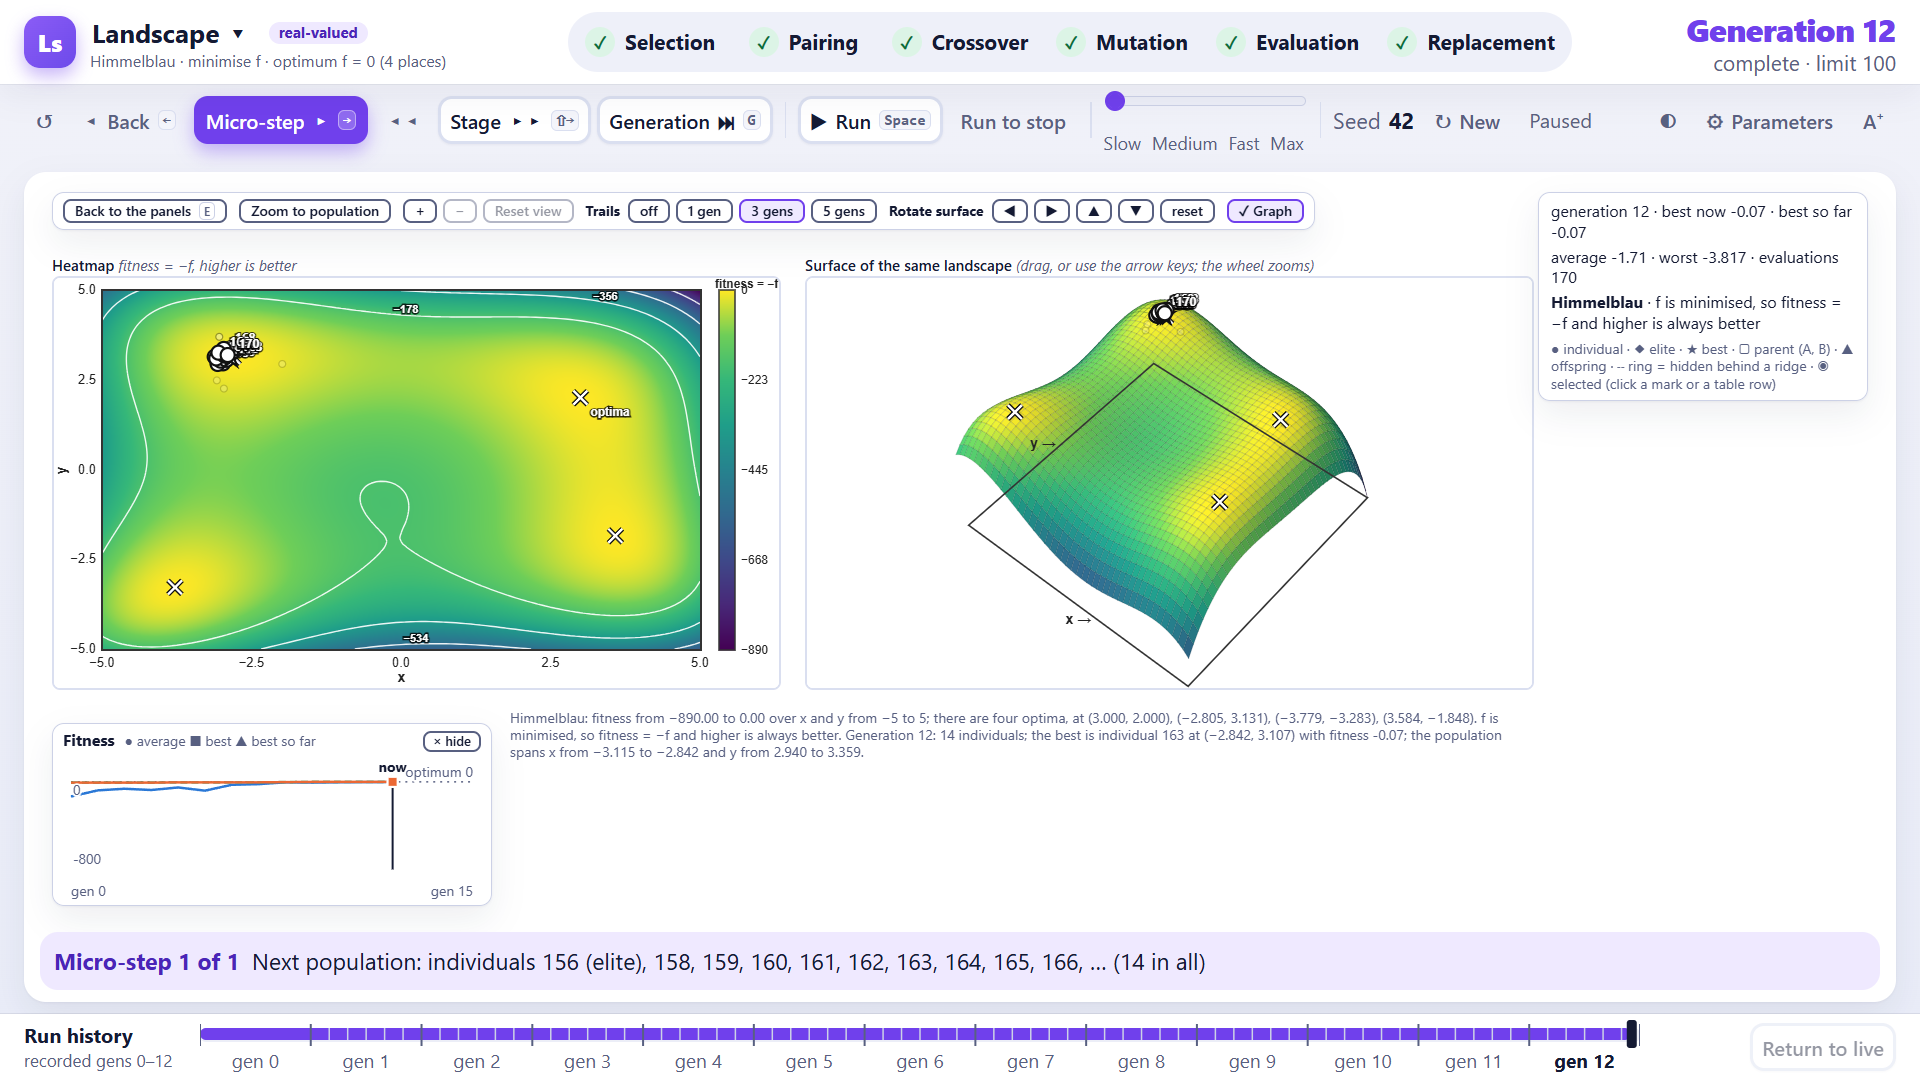
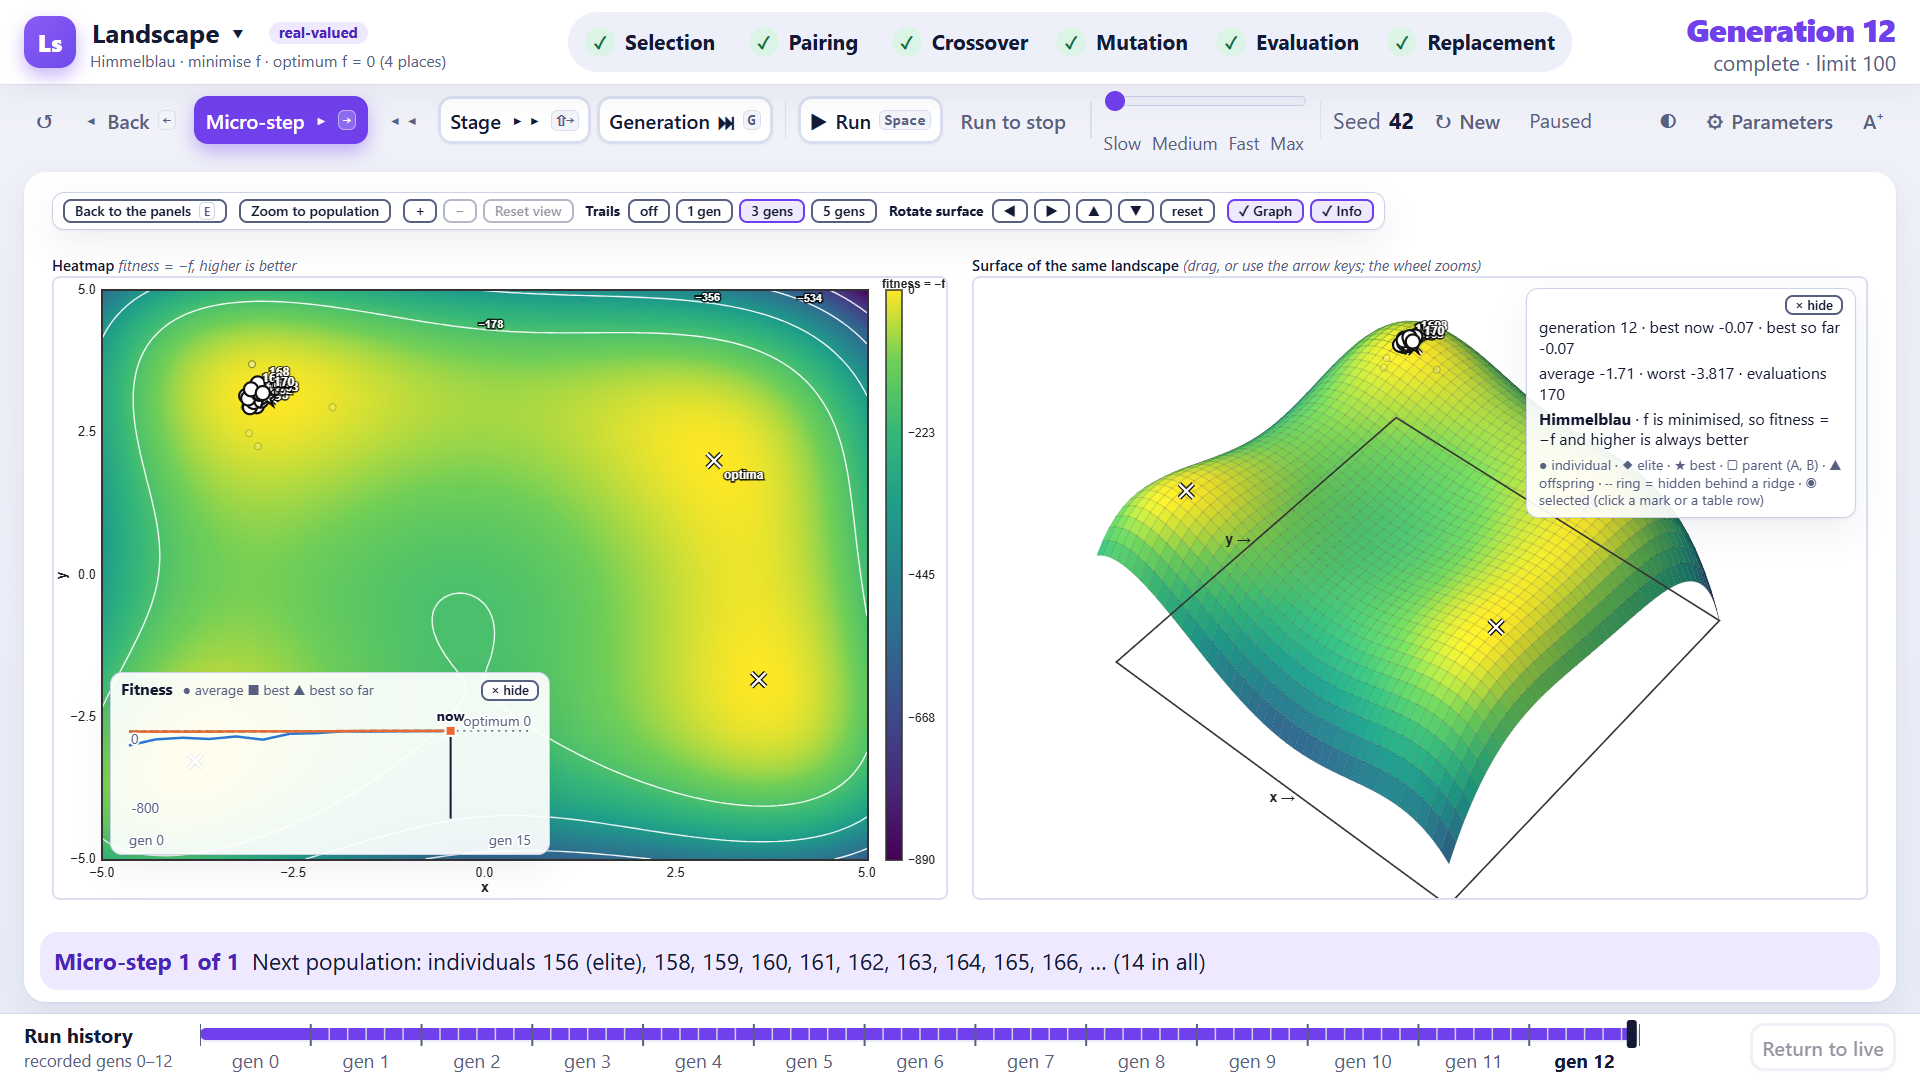
Landscape focus view: both figures fill the height, the fitness graph is a closable overlay on the heatmap and the information box a closable overlay on the surface, the long sentence is for the screen reader only

Changed region(s): [[0.0312, 0.1833, 0.9688, 0.8556], [0.6875, 0.1833, 0.7188, 0.2139]]

diff --git a/e2e/focus-landscape.spec.ts b/e2e/focus-landscape.spec.ts
@@ -76,31 +76,61 @@ const markers = (page: Page, layer: 'heat-marks' | 'surface-marks') =>
     [...svg.querySelectorAll('[data-marker="individual"]')].map((g) => ({ id: Number(g.getAttribute('data-id')), x: Number(g.getAttribute('data-x')), y: Number(g.getAttribute('data-y')) })),
   );
 
-test('the heatmap and the surface side by side, each about twice the area it has in the ordinary view, in the whole panel', async ({ page }) => {
+test('the heatmap and the surface side by side, each filling the height of the body and several times the area it has in the ordinary view; the graph lies on the heatmap and the card on the surface', async ({ page }) => {
   await open(page, himmelblau, false, false);
   const small = await designBoxes(page, sels);
   expect(small.heat!.width).toBeLessThan(540);
   await page.getByTestId('focus-toggle').click();
   const b = await designBoxes(page, sels);
   for (const name of ['heat', 'surface'] as const) {
-    expect(b[name]!.width * b[name]!.height, name).toBeGreaterThan(1.9 * small[name]!.width * small[name]!.height);
+    expect(b[name]!.width * b[name]!.height, name).toBeGreaterThan(3 * small[name]!.width * small[name]!.height);
     expect(within(b[name]!, b.body!), `${name} inside the body`).toBe(true);
+    // full height: from under the toolbar row to near the bottom of the body
+    expect(b[name]!.height, `${name} height`).toBeGreaterThan(b.body!.height - 150);
+    expect(b[name]!.width, `${name} width`).toBeGreaterThan(850);
   }
   expect(b.heat!.left + b.heat!.width).toBeLessThanOrEqual(b.surface!.left + 0.5);
   expect(Math.abs(b.heat!.top - b.surface!.top)).toBeLessThan(4);
-  // none of the overlays lies over a figure, and the overlays are apart
-  for (const name of ['toolbar', 'card', 'graph'] as const) {
-    expect(b[name], name).toBeDefined();
-    expect(within(b[name]!, b.body!), `${name} inside the body`).toBe(true);
-    expect(apart(b[name]!, b.heat!), `${name} and the heatmap`).toBe(true);
-    expect(apart(b[name]!, b.surface!), `${name} and the surface`).toBe(true);
-  }
-  expect(apart(b.toolbar!, b.card!)).toBe(true);
-  expect(apart(b.toolbar!, b.graph!)).toBe(true);
-  expect(apart(b.card!, b.graph!)).toBe(true);
+  // the toolbar is above the figures, the graph lies inside the heatmap and the card inside the surface
+  expect(apart(b.toolbar!, b.heat!)).toBe(true);
+  expect(apart(b.toolbar!, b.surface!)).toBe(true);
+  expect(within(b.graph!, b.heat!), 'the graph on the heatmap').toBe(true);
+  expect(within(b.card!, b.surface!), 'the card on the surface').toBe(true);
+  expect(apart(b.graph!, b.card!)).toBe(true);
+  // the long sentence under the figures is for the screen reader, not on the screen
+  expect(await page.getByTestId('landscape-sentence').evaluate((e) => !!e.closest('.sr-only'))).toBe(true);
   await page.getByTestId('focus-toggle').click();
   const back = await designBoxes(page, sels);
   expect(back.heat!.width).toBeCloseTo(small.heat!.width, 0);
+  await expect(page.getByTestId('landscape-sentence')).toBeVisible();
+});
+
+test('the graph and the information box can each be closed with their own button and brought back with the toolbar, and stay as left through steps and leaving', async ({ page }) => {
+  await open(page);
+  const card = page.getByTestId('focus-card');
+  const graph = page.getByTestId('focus-graph');
+  await expect(card).toBeVisible();
+  await expect(graph).toBeVisible();
+  await expect(page.getByTestId('toggle-card')).toHaveAttribute('aria-pressed', 'true');
+  await expect(page.getByRole('button', { name: 'Hide the information box' })).toBeVisible();
+  await page.getByRole('button', { name: 'Hide the information box' }).click();
+  await expect(card).toHaveCount(0);
+  await expect(page.getByTestId('toggle-card')).toHaveAttribute('aria-pressed', 'false');
+  await page.getByRole('button', { name: 'Hide the fitness graph' }).click();
+  await expect(graph).toHaveCount(0);
+  await page.keyboard.press('g');
+  await expect(card).toHaveCount(0);
+  await expect(graph).toHaveCount(0);
+  await page.getByTestId('toggle-card').click();
+  await expect(card).toContainText('generation 1');
+  await page.getByTestId('toggle-graph').click();
+  await expect(page.locator('svg[data-plot="fitness-mini"]')).toHaveAttribute('data-now', '1');
+  await page.getByTestId('toggle-card').focus();
+  await page.keyboard.press('Space');
+  await expect(card).toHaveCount(0);
+  await page.keyboard.press('e');
+  await page.keyboard.press('e');
+  await expect(card).toHaveCount(0);
 });
 
 test('the figures card has the generation\'s figures and the function, equal to the engine at every generation; the graph equals the metrics', async ({ page }) => {
@@ -366,14 +396,12 @@ for (const projector of [false, true]) {
       await page.locator('#narr').click();
       const check = async (at: string) => {
         const b = await designBoxes(page, sels);
-        for (const name of ['toolbar', 'card', 'graph'] as const) {
-          expect(within(b[name]!, b.body!), `${at}: ${name} inside the body ${JSON.stringify(b[name])}`).toBe(true);
-          expect(apart(b[name]!, b.heat!), `${at}: ${name} and the heatmap`).toBe(true);
-          expect(apart(b[name]!, b.surface!), `${at}: ${name} and the surface`).toBe(true);
-        }
-        expect(apart(b.toolbar!, b.card!), `${at}: toolbar and card`).toBe(true);
-        expect(apart(b.toolbar!, b.graph!), `${at}: toolbar and graph`).toBe(true);
-        expect(apart(b.card!, b.graph!), `${at}: card and graph`).toBe(true);
+        for (const name of ['toolbar', 'card', 'graph'] as const) expect(within(b[name]!, b.body!), `${at}: ${name} inside the body ${JSON.stringify(b[name])}`).toBe(true);
+        expect(apart(b.toolbar!, b.heat!), `${at}: toolbar and the heatmap`).toBe(true);
+        expect(apart(b.toolbar!, b.surface!), `${at}: toolbar and the surface`).toBe(true);
+        expect(within(b.graph!, b.heat!), `${at}: the graph on the heatmap`).toBe(true);
+        expect(within(b.card!, b.surface!), `${at}: the card on the surface`).toBe(true);
+        expect(apart(b.graph!, b.card!), `${at}: graph and card`).toBe(true);
         expect(b.toolbar!.height, `${at}: the toolbar is one row`).toBeLessThanOrEqual(60);
         expect(apart(b.body!, b.narr!), `${at}: the body and the narration`).toBe(true);
         const bad = await page.evaluate(() => {

diff --git a/src/ui/LandscapeView.svelte b/src/ui/LandscapeView.svelte
@@ -26,7 +26,8 @@
     trail = $bindable(0),
     heatView = $bindable(undefined),
     showGraph = $bindable(true),
-  }: { session: Session; zoom?: boolean; surface?: SurfaceView; trail?: 0 | 1 | 3 | 5; heatView?: MapView | undefined; showGraph?: boolean } = $props();
+    showCard = $bindable(true),
+  }: { session: Session; zoom?: boolean; surface?: SurfaceView; trail?: 0 | 1 | 3 | 5; heatView?: MapView | undefined; showGraph?: boolean; showCard?: boolean } = $props();
   const trails: { value: 0 | 1 | 3 | 5; text: string }[] = [
     { value: 0, text: 'off' },
     { value: 1, text: '1 gen' },
@@ -35,8 +36,8 @@
   ];
   const focus = getContext<FocusView | undefined>(focusContextKey);
   const focused = $derived(focus?.active === true);
-  /** The size of each of the two canvases: about twice the area in the focus view, which leaves the figures clear of the overlays. */
-  const figure = $derived(focused ? { width: 725, height: 410 } : { width: canvasSize.width, height: canvasSize.height });
+  /** The size of each of the two canvases: in the focus view they fill the height of the body below the toolbar and half its width each; the graph lies on the heatmap and the information box on the surface. */
+  const figure = $derived(focused ? { width: 892, height: 620 } : { width: canvasSize.width, height: canvasSize.height });
   const marks = $derived(session.landscapeMarks(trail));
   const select = (id: number | undefined) => session.selectIndividual(id === session.selectedId ? undefined : id);
   const buttons: { action: Rotation; label: string; text: string }[] = [
@@ -102,6 +103,7 @@
     {#if focused}
       <span class="lgrp">
         <button class="tog" class:on={showGraph} type="button" aria-pressed={showGraph} data-testid="toggle-graph" onclick={() => (showGraph = !showGraph)}><span aria-hidden="true">{showGraph ? '✓ ' : ''}</span>Graph</button>
+        <button class="tog" class:on={showCard} type="button" aria-pressed={showCard} data-testid="toggle-card" onclick={() => (showCard = !showCard)}><span aria-hidden="true">{showCard ? '✓ ' : ''}</span>Info</button>
       </span>
     {/if}
     <span class="lgrp expand">
@@ -114,11 +116,25 @@
   <div class="lplots">
     <figure>
       <figcaption>Heatmap <i>fitness{info!.minimised ? ' = −f' : ' = f'}, higher is better</i></figcaption>
-      <Heatmap info={info!} region={region!} zoomed={zoomedIn} width={figure.width} height={figure.height} {marks} selectedId={session.selectedId} onselect={select} view={heatView} onview={setHeat} />
+      <div class="lcanvas">
+        <Heatmap info={info!} region={region!} zoomed={zoomedIn} width={figure.width} height={figure.height} {marks} selectedId={session.selectedId} onselect={select} view={heatView} onview={setHeat} />
+        {#if focused && showGraph}<div class="rmo rmo-graph lover lover-graph" data-testid="focus-graph"><MiniFitness model={session.plots} onhide={() => (showGraph = false)} /></div>{/if}
+      </div>
     </figure>
     <figure>
       <figcaption>Surface of the same landscape <i>(drag, or use the arrow keys; the wheel zooms)</i></figcaption>
-      <Surface info={info!} bind:view={surface} width={figure.width} height={figure.height} {marks} selectedId={session.selectedId} onselect={select} />
+      <div class="lcanvas">
+        <Surface info={info!} bind:view={surface} width={figure.width} height={figure.height} {marks} selectedId={session.selectedId} onselect={select} />
+        {#if focused && showCard}
+          <div class="rmo rmo-card lover lover-card" data-testid="focus-card">
+            <div class="lcard-head"><button class="tog" type="button" aria-label="Hide the information box" data-testid="hide-card" onclick={() => (showCard = false)}><span aria-hidden="true">×</span> hide</button></div>
+            <p class="lcard-line">{lines[0]}</p>
+            <p class="lcard-line">{lines[1]}</p>
+            <p class="lcard-fn"><b>{info!.name}</b> · {goal}</p>
+            {@render keyLine()}
+          </div>
+        {/if}
+      </div>
     </figure>
   </div>
 {/snippet}
@@ -149,14 +165,7 @@
     <div class="lview lfocus" data-testid="landscape-view">
       {@render figures()}
       <div class="rmo rmo-bar" data-testid="focus-toolbar">{@render toolbar()}</div>
-      <div class="rmo rmo-card" data-testid="focus-card">
-        <p class="lcard-line">{lines[0]}</p>
-        <p class="lcard-line">{lines[1]}</p>
-        <p class="lcard-fn"><b>{info.name}</b> · {goal}</p>
-        {@render keyLine()}
-      </div>
-      {#if showGraph}<div class="rmo rmo-graph" data-testid="focus-graph"><MiniFitness model={session.plots} onhide={() => (showGraph = false)} /></div>{/if}
-      <div class="lfoot">{@render sentences()}</div>
+      <div class="sr-only">{@render sentences()}</div>
       {@render positions()}
     </div>
   {:else}

diff --git a/e2e/focus-a11y.spec.ts b/e2e/focus-a11y.spec.ts
@@ -62,14 +62,20 @@ const base = { panel: '[data-testid="stage-panel"]', body: '#stagebody', toolbar
 /** Everything of the focus view is inside its place, nothing overlaps, nothing scrolls, the narration is whole. */
 const checkGeometry = async (page: Page, at: string, figures: Record<string, string>) => {
   const b = await boxes(page, { ...base, ...figures });
+  const landscape = !!b.heat;
   for (const name of ['toolbar', 'card', 'graph'] as const) {
     if (!b[name]) continue;
     expect(within(b[name]!, b.body!), `${at}: ${name} inside the body ${JSON.stringify(b[name])}`).toBe(true);
-    for (const f of Object.keys(figures)) if (b[f]) expect(apart(b[name]!, b[f]!), `${at}: ${name} and ${f}`).toBe(true);
   }
-  expect(apart(b.toolbar!, b.card!), `${at}: toolbar and card`).toBe(true);
+  if (landscape) {
+    // the toolbar is above the figures; the graph lies on the heatmap and the card on the surface
+    for (const f of Object.keys(figures)) expect(apart(b.toolbar!, b[f]!), `${at}: toolbar and ${f}`).toBe(true);
+    if (b.graph) expect(within(b.graph, b.heat!), `${at}: the graph on the heatmap`).toBe(true);
+    if (b.card) expect(within(b.card, b.surface!), `${at}: the card on the surface`).toBe(true);
+  }
+  if (b.card) expect(apart(b.toolbar!, b.card), `${at}: toolbar and card`).toBe(true);
   if (b.graph) expect(apart(b.toolbar!, b.graph), `${at}: toolbar and graph`).toBe(true);
-  if (b.graph) expect(apart(b.card!, b.graph), `${at}: card and graph`).toBe(true);
+  if (b.graph && b.card) expect(apart(b.card, b.graph), `${at}: card and graph`).toBe(true);
   expect(b.toolbar!.height, `${at}: the toolbar is one row`).toBeLessThanOrEqual(60);
   expect(apart(b.body!, b.narr!), `${at}: the body and the narration`).toBe(true);
   expect(within(b.narr!, b.panel!), `${at}: the narration inside the panel`).toBe(true);
@@ -179,10 +185,10 @@ test.describe('the colour audit of the new overlays', () => {
     await page.getByTestId('zoom-in').click();
     await expect(page.getByTestId('zoom-out')).toBeEnabled();
     await openLand(page, { function: 'himmelblau', representation: 'real', bitsPerVariable: 10 });
-    for (const id of ['zoom-toggle', 'toggle-graph', 'trail-0', 'trail-3']) {
+    for (const id of ['zoom-toggle', 'toggle-graph', 'toggle-card', 'trail-0', 'trail-3']) {
       const button = page.getByTestId(id);
       const on = (await button.getAttribute('aria-pressed')) === 'true';
-      if (id === 'toggle-graph') expect((await button.innerText()).startsWith('✓')).toBe(on);
+      if (id === 'toggle-graph' || id === 'toggle-card') expect((await button.innerText()).startsWith('✓')).toBe(on);
       await button.click();
       expect(await button.getAttribute('aria-pressed'), id).not.toBeNull();
     }

diff --git a/src/ui/StagePanel.svelte b/src/ui/StagePanel.svelte
@@ -77,6 +77,7 @@
   let showOptimalTour = $state(false);
   let showCityNumbers = $state(true);
   let showFocusGraph = $state(true);
+  let showFocusCard = $state(true);
   /** The map's zoom and pan: kept across steps, tabs and restarts of the same instance, started over by another one. */
   let mapZoom = $state<MapView | undefined>(undefined);
   const instanceKey = $derived(tour ? `${tour.instance.name}|${tour.cities}|${tour.places.map((p) => p.join(',')).join(';')}` : '');
@@ -164,7 +165,7 @@
     {#if mapOpen}
       <RouteMapView {session} bind:showPopulation={showPopulationEdges} bind:showOptimal={showOptimalTour} bind:showNumbers={showCityNumbers} bind:showGraph={showFocusGraph} bind:zoom={mapZoom} />
     {:else if landscapeOpen}
-      <LandscapeView {session} bind:zoom={zoomToPopulation} bind:surface={surfaceView} bind:trail bind:heatView bind:showGraph={showFocusGraph} />
+      <LandscapeView {session} bind:zoom={zoomToPopulation} bind:surface={surfaceView} bind:trail bind:heatView bind:showGraph={showFocusGraph} bind:showCard={showFocusCard} />
     {:else if schemaOpen && blocks}
       <SchemaTracker info={blocks} text={schemaText} oninput={(t) => (typedSchema = t)} history={schemaPoints} now={view.position.cycle} />
     {:else if stage === 'selection' && tournament}

diff --git a/src/ui/app.css b/src/ui/app.css
@@ -1088,8 +1088,12 @@ svg[data-plot="fitness"] text.refl { paint-order:stroke; stroke:var(--surface); 
 /* the focus view of the landscape: the heatmap and the surface side by side, the overlays over the corners */
 .lfocus { position:relative; display:block; height:100%; }
 .lfocus .lplots { position:absolute; left:12px; top:72px; gap:24px; }
-.lfocus .lfoot { position:absolute; left:470px; top:524px; width:1016px; }
-.lfocus .lfoot .lsent { font-size:14px; }
+.lcanvas { position:relative; }
+.lover { position:absolute; }
+.lover-graph { left:58px; bottom:50px; }
+.lover-card { right:12px; top:12px; width:330px; }
+.lcard-head { display:flex; justify-content:flex-end; margin:-2px 0 2px; }
+.lcard-head .tog { font-size:13px; padding:0 8px; min-width:0; }
 .lfocus .rmo-bar { max-width:1474px; }
 .rmo-card .lcard-line, .rmo-card .lcard-fn { margin:0 0 4px; font-size:15px; line-height:1.3; }
 .rmo-card .lkey { margin:6px 0 0; font-size:13px; line-height:1.25; }

diff --git a/.scratch/milestone-7-bigger-views/issues/06-focus-landscape.md b/.scratch/milestone-7-bigger-views/issues/06-focus-landscape.md
@@ -24,3 +24,7 @@ The heatmap and the surface side by side, each about twice as large, with the sa
 **Zoom of the surface** (`surface-projection.ts`): the view gained an optional `zoom` (1× to 4×) that brings the camera closer: the wheel zooms, `+` `−` `0` on the focused surface zoom and reset, drag and the arrow keys still turn it and keep the zoom, the reset button and **Reset view** return to the first camera (az, el and zoom). **Reset view** also switches Zoom to population off and returns the heatmap to the whole domain, so it returns everything to the whole landscape.
 
 **Tests:** unit (`heat-zoom.test.ts` 7, `surface-zoom.test.ts` 4): the part shown at 1×, 2× and 40×, the point under the pointer kept for the whole domain and for the population's region, the axes the right way up, a drag never leaving the region, the pointer held at the plot's edge; the camera zoom limited, kept by rotating and dragging, reset, and every point exactly twice as far from the middle at 2×. End-to-end (`e2e/focus-landscape.spec.ts`, 15): the figures about twice the area, in the body, apart from the three overlays and from each other, and back to their first size; the card equals the engine's figures at generations 0 to 4 and the graph equals the metrics (marker values, name equal to the hidden full plot's); the marks are the engine's on both figures in every generation (every individual at its decoded point, the surface's as well) and a click on the heatmap selects on the surface; wheel about the pointer (the point of the plane under it stays), a drag, the wheel out to the whole domain, the double-click; zoom to population and the wheel compose and Reset view returns everything; the surface wheel (1× to 4×), drag and arrows still turning, `+` `−` `0`; the heatmap's keys; every toolbar control; the zoom kept through steps, a restart and in and out of the focus view (the same region); **during Run the table, the graph and the marks agree on the generation in every drawn frame, every generation from 1 to 8 is drawn and at least six distinct sets of marks are seen**; geometry at both sizes in projector mode and not at every fourth micro-step of two generations and zoomed; keyboard-only reach of the controls, every one named, Esc leaves. Mutations (no surface wheel, no heatmap keys, a flipped axis) fail tests. 2,264 unit tests and `npm run check` pass; 960 end-to-end tests pass (43 skipped without their switches).
+
+### Revision after the instructor's look at the first version
+
+The first layout left a lot of the area empty (small figures, the sentence under them, the graph and the card in blank corners). Changed on the instructor's request: the long sentence under the figures ("Single peak: fitness …") is no longer on the screen (it stays for the screen reader); **both figures fill the height of the body** (892 × 620 design px each, about four times the ordinary area) and half its width each; the **fitness graph is a closable overlay on the heatmap** (inside its plot, bottom left) and the **information box a closable overlay on the surface** (top right), each with its own "× hide" and a toggle in the toolbar (**Graph**, **Info**, both with ✓ and `aria-pressed`), kept as left through steps and leaving; the toolbar stays above the figures. The geometry tests now say: the figures fill the body, the toolbar is apart from them, the graph lies inside the heatmap's box and the card inside the surface's, at both sizes in projector mode, every function and both representations; a test closes and reopens each box. 2,267 unit tests and the end-to-end suite pass.
